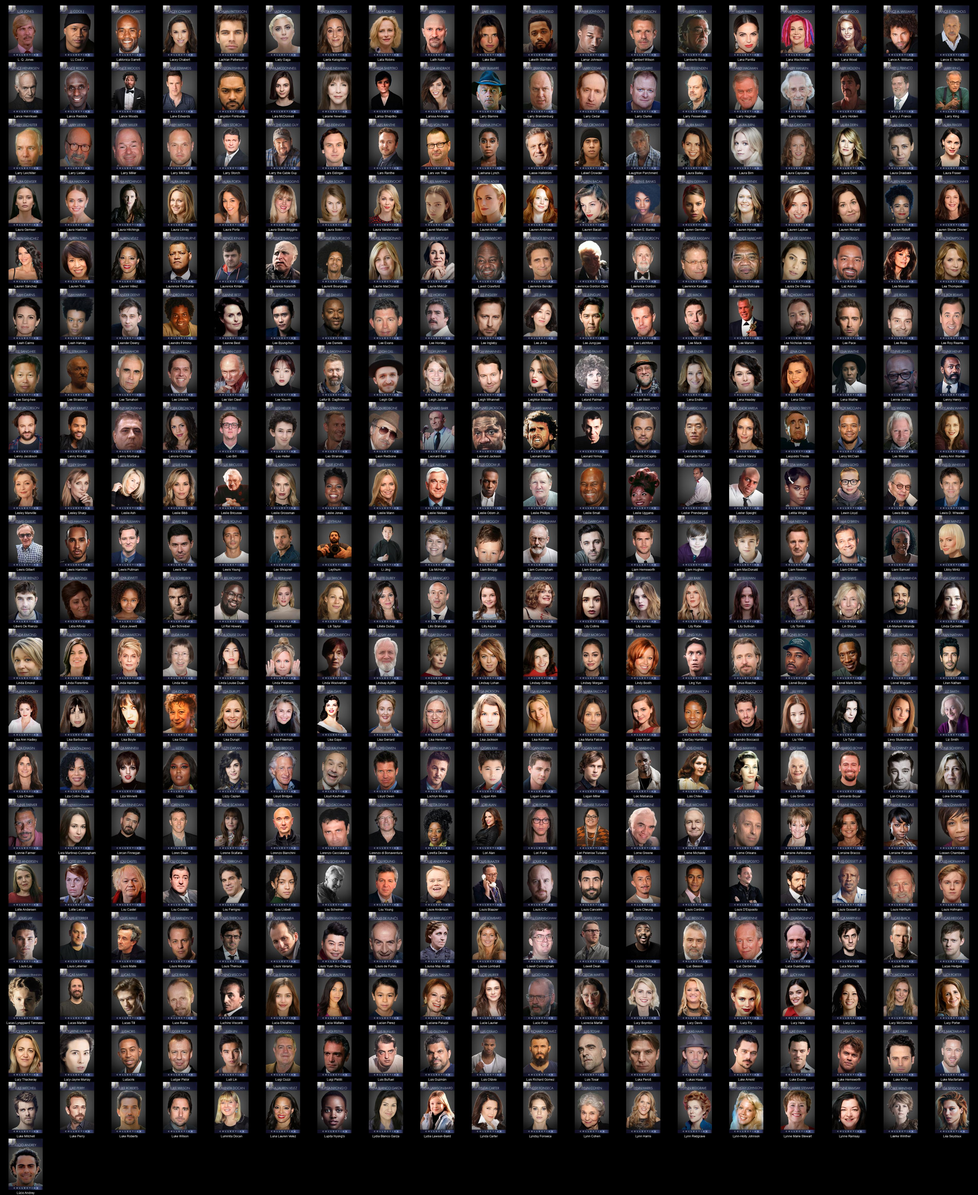
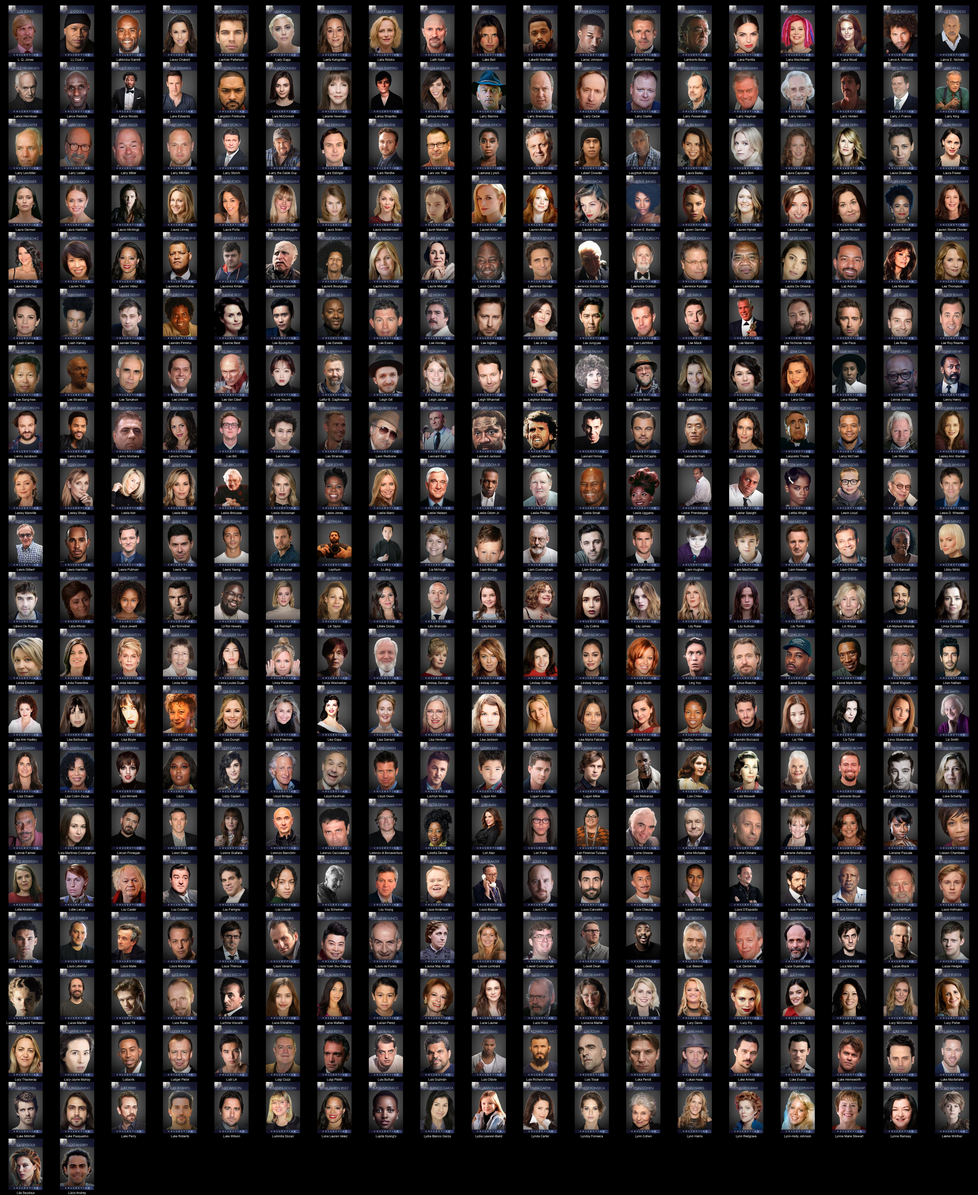
Readme Update

Changed region(s): [[0.1242, 0.9062, 0.9937, 0.9688], [0.0, 0.9062, 0.0932, 1.0]]

diff --git a/README.md b/README.md
@@ -1,4 +1,4 @@
-# Plex Meta Manager People - DIIIVOY Color (diiivoycolor) (8699 Images)
+# Plex Meta Manager People - DIIIVOY Color (diiivoycolor) (8702 Images)
 
 <details><summary><a href="'">' (1 Images)</a></summary>
 
@@ -2341,7 +2341,7 @@
 * [Débora Nascimento](https://raw.githubusercontent.com/meisnate12/Plex-Meta-Manager-People-diiivoycolor/master/D/Images/D%C3%A9bora%20Nascimento.jpg)
 * [Díana Bermudez](https://raw.githubusercontent.com/meisnate12/Plex-Meta-Manager-People-diiivoycolor/master/D/Images/D%C3%ADana%20Bermudez.jpg)
 </details>
-<details><summary><a href="E">E (320 Images)</a></summary>
+<details><summary><a href="E">E (321 Images)</a></summary>
 
 * [E.G. Marshall](https://raw.githubusercontent.com/meisnate12/Plex-Meta-Manager-People-diiivoycolor/master/E/Images/E.G.%20Marshall.jpg)
 * [E.J. Bonilla](https://raw.githubusercontent.com/meisnate12/Plex-Meta-Manager-People-diiivoycolor/master/E/Images/E.J.%20Bonilla.jpg)
@@ -2479,6 +2479,7 @@
 * [Elliott Gould](https://raw.githubusercontent.com/meisnate12/Plex-Meta-Manager-People-diiivoycolor/master/E/Images/Elliott%20Gould.jpg)
 * [Ellory Elkayem](https://raw.githubusercontent.com/meisnate12/Plex-Meta-Manager-People-diiivoycolor/master/E/Images/Ellory%20Elkayem.jpg)
 * [Elmer Bernstein](https://raw.githubusercontent.com/meisnate12/Plex-Meta-Manager-People-diiivoycolor/master/E/Images/Elmer%20Bernstein.jpg)
+* [Elodie Yung](https://raw.githubusercontent.com/meisnate12/Plex-Meta-Manager-People-diiivoycolor/master/E/Images/Elodie%20Yung.jpg)
 * [Eloise Mumford](https://raw.githubusercontent.com/meisnate12/Plex-Meta-Manager-People-diiivoycolor/master/E/Images/Eloise%20Mumford.jpg)
 * [Elsa Raven](https://raw.githubusercontent.com/meisnate12/Plex-Meta-Manager-People-diiivoycolor/master/E/Images/Elsa%20Raven.jpg)
 * [Elsie Fisher](https://raw.githubusercontent.com/meisnate12/Plex-Meta-Manager-People-diiivoycolor/master/E/Images/Elsie%20Fisher.jpg)
@@ -4522,7 +4523,7 @@
 * [Jürgen Prochnow](https://raw.githubusercontent.com/meisnate12/Plex-Meta-Manager-People-diiivoycolor/master/J/Images/J%C3%BCrgen%20Prochnow.jpg)
 * [Jūzō Itami](https://raw.githubusercontent.com/meisnate12/Plex-Meta-Manager-People-diiivoycolor/master/J/Images/J%C5%ABz%C5%8D%20Itami.jpg)
 </details>
-<details><summary><a href="K">K (389 Images)</a></summary>
+<details><summary><a href="K">K (390 Images)</a></summary>
 
 * [K Raghavendra Rao](https://raw.githubusercontent.com/meisnate12/Plex-Meta-Manager-People-diiivoycolor/master/K/Images/K%20Raghavendra%20Rao.jpg)
 * [K.J. Apa](https://raw.githubusercontent.com/meisnate12/Plex-Meta-Manager-People-diiivoycolor/master/K/Images/K.J.%20Apa.jpg)
@@ -4649,6 +4650,7 @@
 * [Katt Williams](https://raw.githubusercontent.com/meisnate12/Plex-Meta-Manager-People-diiivoycolor/master/K/Images/Katt%20Williams.jpg)
 * [Katy Breier](https://raw.githubusercontent.com/meisnate12/Plex-Meta-Manager-People-diiivoycolor/master/K/Images/Katy%20Breier.jpg)
 * [Katy O'Brian](https://raw.githubusercontent.com/meisnate12/Plex-Meta-Manager-People-diiivoycolor/master/K/Images/Katy%20O%27Brian.jpg)
+* [Katy Wix](https://raw.githubusercontent.com/meisnate12/Plex-Meta-Manager-People-diiivoycolor/master/K/Images/Katy%20Wix.jpg)
 * [Kay Kay Menon](https://raw.githubusercontent.com/meisnate12/Plex-Meta-Manager-People-diiivoycolor/master/K/Images/Kay%20Kay%20Menon.jpg)
 * [Kaya Scodelario](https://raw.githubusercontent.com/meisnate12/Plex-Meta-Manager-People-diiivoycolor/master/K/Images/Kaya%20Scodelario.jpg)
 * [Kayla Adams](https://raw.githubusercontent.com/meisnate12/Plex-Meta-Manager-People-diiivoycolor/master/K/Images/Kayla%20Adams.jpg)
@@ -4914,7 +4916,7 @@
 * [Kym Miller](https://raw.githubusercontent.com/meisnate12/Plex-Meta-Manager-People-diiivoycolor/master/K/Images/Kym%20Miller.jpg)
 * [Kyra Sedgwick](https://raw.githubusercontent.com/meisnate12/Plex-Meta-Manager-People-diiivoycolor/master/K/Images/Kyra%20Sedgwick.jpg)
 </details>
-<details><summary><a href="L">L (381 Images)</a></summary>
+<details><summary><a href="L">L (382 Images)</a></summary>
 
 * [L. Q. Jones](https://raw.githubusercontent.com/meisnate12/Plex-Meta-Manager-People-diiivoycolor/master/L/Images/L.%20Q.%20Jones.jpg)
 * [LL Cool J](https://raw.githubusercontent.com/meisnate12/Plex-Meta-Manager-People-diiivoycolor/master/L/Images/LL%20Cool%20J.jpg)
@@ -5278,6 +5280,7 @@
 * [Luke Kirby](https://raw.githubusercontent.com/meisnate12/Plex-Meta-Manager-People-diiivoycolor/master/L/Images/Luke%20Kirby.jpg)
 * [Luke Macfarlane](https://raw.githubusercontent.com/meisnate12/Plex-Meta-Manager-People-diiivoycolor/master/L/Images/Luke%20Macfarlane.jpg)
 * [Luke Mitchell](https://raw.githubusercontent.com/meisnate12/Plex-Meta-Manager-People-diiivoycolor/master/L/Images/Luke%20Mitchell.jpg)
+* [Luke Pasqualino](https://raw.githubusercontent.com/meisnate12/Plex-Meta-Manager-People-diiivoycolor/master/L/Images/Luke%20Pasqualino.jpg)
 * [Luke Perry](https://raw.githubusercontent.com/meisnate12/Plex-Meta-Manager-People-diiivoycolor/master/L/Images/Luke%20Perry.jpg)
 * [Luke Roberts](https://raw.githubusercontent.com/meisnate12/Plex-Meta-Manager-People-diiivoycolor/master/L/Images/Luke%20Roberts.jpg)
 * [Luke Wilson](https://raw.githubusercontent.com/meisnate12/Plex-Meta-Manager-People-diiivoycolor/master/L/Images/Luke%20Wilson.jpg)

diff --git a/K/README.md b/K/README.md
@@ -1,4 +1,4 @@
-# Plex Meta Manager People - DIIIVOY Color (diiivoycolor) - K (389 Images)
+# Plex Meta Manager People - DIIIVOY Color (diiivoycolor) - K (390 Images)
 ![Grid](grid.jpg)
 
 * [K Raghavendra Rao](https://raw.githubusercontent.com/meisnate12/Plex-Meta-Manager-People-diiivoycolor/master/K/Images/K%20Raghavendra%20Rao.jpg)
@@ -126,6 +126,7 @@
 * [Katt Williams](https://raw.githubusercontent.com/meisnate12/Plex-Meta-Manager-People-diiivoycolor/master/K/Images/Katt%20Williams.jpg)
 * [Katy Breier](https://raw.githubusercontent.com/meisnate12/Plex-Meta-Manager-People-diiivoycolor/master/K/Images/Katy%20Breier.jpg)
 * [Katy O'Brian](https://raw.githubusercontent.com/meisnate12/Plex-Meta-Manager-People-diiivoycolor/master/K/Images/Katy%20O%27Brian.jpg)
+* [Katy Wix](https://raw.githubusercontent.com/meisnate12/Plex-Meta-Manager-People-diiivoycolor/master/K/Images/Katy%20Wix.jpg)
 * [Kay Kay Menon](https://raw.githubusercontent.com/meisnate12/Plex-Meta-Manager-People-diiivoycolor/master/K/Images/Kay%20Kay%20Menon.jpg)
 * [Kaya Scodelario](https://raw.githubusercontent.com/meisnate12/Plex-Meta-Manager-People-diiivoycolor/master/K/Images/Kaya%20Scodelario.jpg)
 * [Kayla Adams](https://raw.githubusercontent.com/meisnate12/Plex-Meta-Manager-People-diiivoycolor/master/K/Images/Kayla%20Adams.jpg)

diff --git a/E/README.md b/E/README.md
@@ -1,4 +1,4 @@
-# Plex Meta Manager People - DIIIVOY Color (diiivoycolor) - E (320 Images)
+# Plex Meta Manager People - DIIIVOY Color (diiivoycolor) - E (321 Images)
 ![Grid](grid.jpg)
 
 * [E.G. Marshall](https://raw.githubusercontent.com/meisnate12/Plex-Meta-Manager-People-diiivoycolor/master/E/Images/E.G.%20Marshall.jpg)
@@ -137,6 +137,7 @@
 * [Elliott Gould](https://raw.githubusercontent.com/meisnate12/Plex-Meta-Manager-People-diiivoycolor/master/E/Images/Elliott%20Gould.jpg)
 * [Ellory Elkayem](https://raw.githubusercontent.com/meisnate12/Plex-Meta-Manager-People-diiivoycolor/master/E/Images/Ellory%20Elkayem.jpg)
 * [Elmer Bernstein](https://raw.githubusercontent.com/meisnate12/Plex-Meta-Manager-People-diiivoycolor/master/E/Images/Elmer%20Bernstein.jpg)
+* [Elodie Yung](https://raw.githubusercontent.com/meisnate12/Plex-Meta-Manager-People-diiivoycolor/master/E/Images/Elodie%20Yung.jpg)
 * [Eloise Mumford](https://raw.githubusercontent.com/meisnate12/Plex-Meta-Manager-People-diiivoycolor/master/E/Images/Eloise%20Mumford.jpg)
 * [Elsa Raven](https://raw.githubusercontent.com/meisnate12/Plex-Meta-Manager-People-diiivoycolor/master/E/Images/Elsa%20Raven.jpg)
 * [Elsie Fisher](https://raw.githubusercontent.com/meisnate12/Plex-Meta-Manager-People-diiivoycolor/master/E/Images/Elsie%20Fisher.jpg)

diff --git a/L/README.md b/L/README.md
@@ -1,4 +1,4 @@
-# Plex Meta Manager People - DIIIVOY Color (diiivoycolor) - L (381 Images)
+# Plex Meta Manager People - DIIIVOY Color (diiivoycolor) - L (382 Images)
 ![Grid](grid.jpg)
 
 * [L. Q. Jones](https://raw.githubusercontent.com/meisnate12/Plex-Meta-Manager-People-diiivoycolor/master/L/Images/L.%20Q.%20Jones.jpg)
@@ -363,6 +363,7 @@
 * [Luke Kirby](https://raw.githubusercontent.com/meisnate12/Plex-Meta-Manager-People-diiivoycolor/master/L/Images/Luke%20Kirby.jpg)
 * [Luke Macfarlane](https://raw.githubusercontent.com/meisnate12/Plex-Meta-Manager-People-diiivoycolor/master/L/Images/Luke%20Macfarlane.jpg)
 * [Luke Mitchell](https://raw.githubusercontent.com/meisnate12/Plex-Meta-Manager-People-diiivoycolor/master/L/Images/Luke%20Mitchell.jpg)
+* [Luke Pasqualino](https://raw.githubusercontent.com/meisnate12/Plex-Meta-Manager-People-diiivoycolor/master/L/Images/Luke%20Pasqualino.jpg)
 * [Luke Perry](https://raw.githubusercontent.com/meisnate12/Plex-Meta-Manager-People-diiivoycolor/master/L/Images/Luke%20Perry.jpg)
 * [Luke Roberts](https://raw.githubusercontent.com/meisnate12/Plex-Meta-Manager-People-diiivoycolor/master/L/Images/Luke%20Roberts.jpg)
 * [Luke Wilson](https://raw.githubusercontent.com/meisnate12/Plex-Meta-Manager-People-diiivoycolor/master/L/Images/Luke%20Wilson.jpg)
